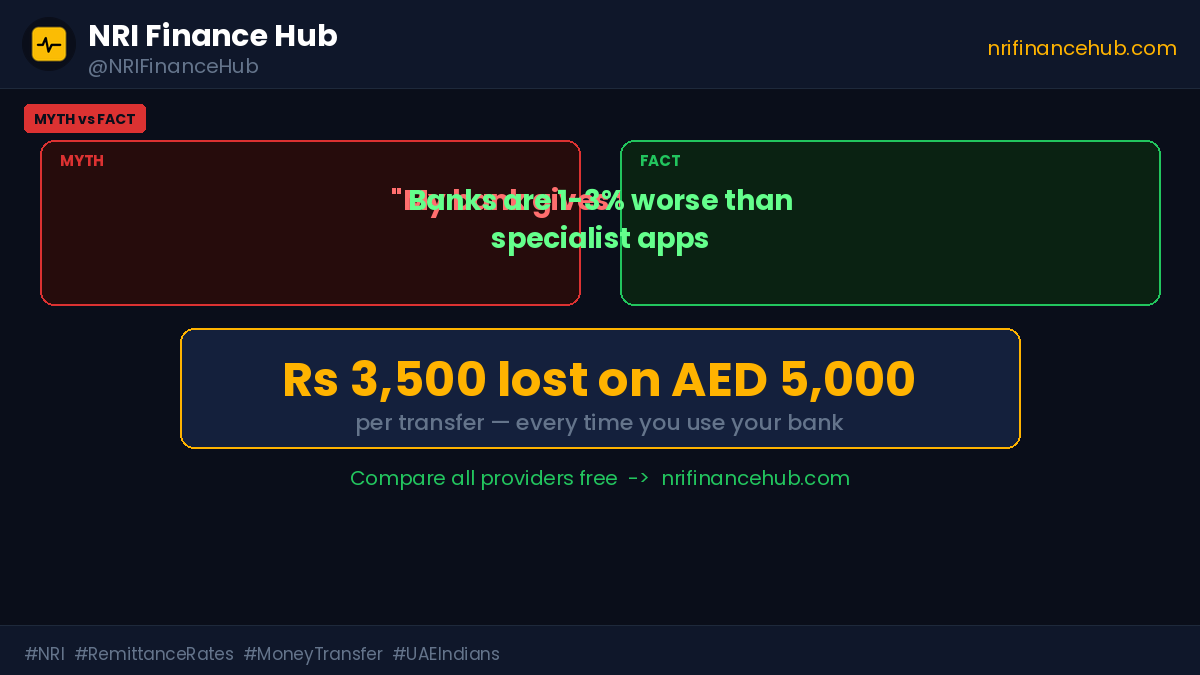
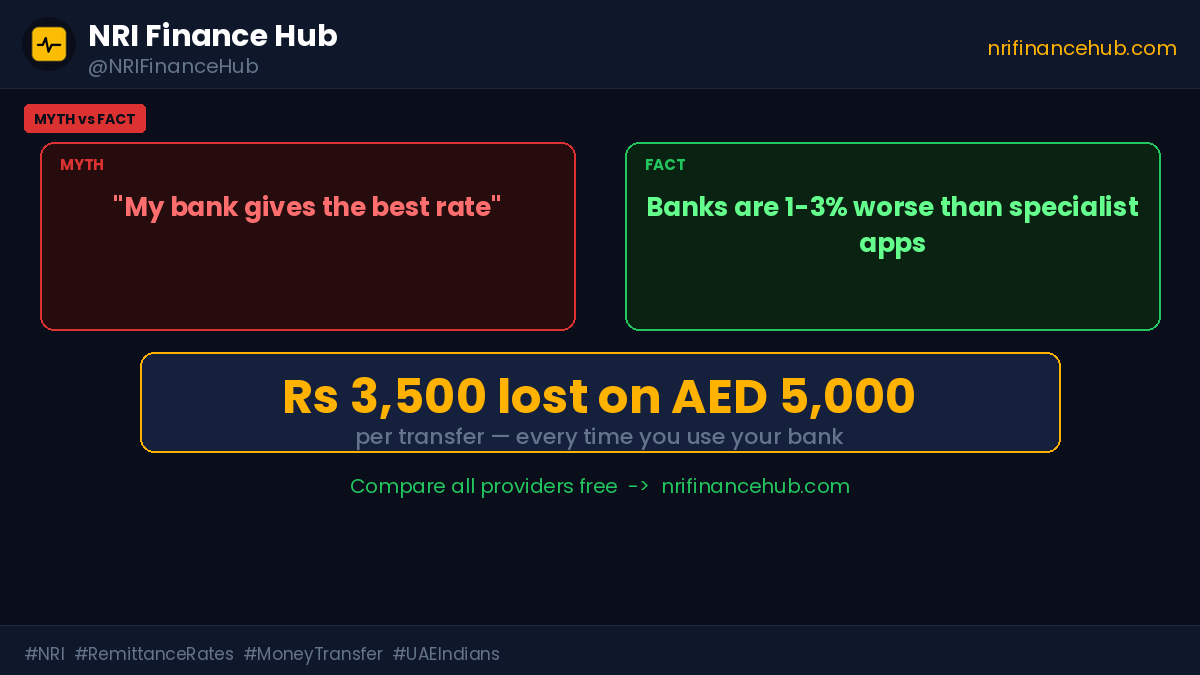
upd

Changed region(s): [[0.0308, 0.1867, 0.9558, 0.7467]]

diff --git a/Projects/14_WebsiteFinance/site/index.html b/Projects/14_WebsiteFinance/site/index.html
@@ -566,7 +566,7 @@ progress{accent-color:var(--violet);}
 <!-- CONVICTION SCAN -->
 <section id="conv" class="tab">
   <div class="card" style="margin-bottom:14px;border-color:#7a5a12;">
-    <span class="muted">⚠️ One button, four independent footprints: technical setup (Screener signals), money-flow (OBV/Chaikin — computed in the same scan), delivery-based accumulation (NSE bhavdata), and business quality (Fundamentals composite score). Only stocks clearing <b>all four</b> gates are shown — deliberately a short, high-bar list, often empty. Multiple signals agreeing isn't proof of anything; this is a filter, not a recommendation.</span>
+    <span class="muted">⚠️ One button, four independent footprints — each a real gate, not just a signal count: technical trade quality (setup score ≥55, above SMA200, penalises overbought/stretched charts), money-flow (OBV/Chaikin, computed in that same scan), delivery-based accumulation (NSE bhavdata, ≥60% delivery on a ≥0.5% up day), and an investment score (≥60) blending business quality, value-trap risk and DCF/Graham margin of safety — the same scoring the Fundamentals tab's own consolidated verdict uses, so nothing that tab would call AVOID or STRETCHED can clear this scan. Only stocks passing <b>all four</b> are shown — deliberately short, often empty. Agreement across signals isn't proof of anything; this is a filter, not a recommendation.</span>
   </div>
   <div class="controls" style="flex-wrap:wrap">
     <select id="convUniverse">
@@ -1839,16 +1839,10 @@ async function renderVerdictPanel(sym, f){
     if(tech) ts = setupScore({...tech, action:"BUY"});
   }catch(e){}
   // --- investment side ---
-  const defG = Math.min(0.20, Math.max(0.04, f.earnings_growth ?? f.revenue_growth ?? 0.10));
-  const iv = (f.eps>0 || f.fcf>0) ? computeIntrinsic(f, {g:defG, r:0.12, tg:0.04, y:7.5}) : null;
-  const q = scoreQuality(f).score, vt = scoreValueTrap(f).score;
-  const mos = iv ? iv.mos : null, impl = iv && iv.implied!=null ? iv.implied*100 : null;
+  const {score:invScore, q, vt, mos, impl} = computeInvestScore(f);
   const revG = f.revenue_growth!=null ? f.revenue_growth*100 : null;
   const earnG = f.earnings_growth!=null ? f.earnings_growth*100 : null;
   const tgtGap = f.target_price!=null && f.price ? (f.target_price-f.price)/f.price*100 : null;
-  // invest score 0-100: quality 40% + trap 20% + valuation 40%
-  const valPart = mos==null ? 50 : mos>=25 ? 100 : mos>=0 ? 60+mos*1.6 : mos>=-50 ? 60+mos : Math.max(5, 10+ (mos+100)*0.1);
-  const invScore = Math.round(((q??50)*0.4) + ((100-(vt??50))*0.2) + valPart*0.4);
   // labels
   const tLbl = ts==null ? ["muted","NO DATA"] : !tech.above_sma200 ? ["bearish","AVOID LONGS"] :
     ts>=70 ? ["bullish","STRONG SETUP"] : ts>=55 ? ["bullish","DECENT SETUP"] : ts>=40 ? ["neutral","WEAK"] : ["bearish","NO SETUP"];
@@ -1937,6 +1931,18 @@ function computeIntrinsic(f, a){   // a = {r, g, tg, y} as decimals; y = Graham 
   }
   return {methods, fair, lo:vals[0], hi:vals[vals.length-1],
     mos:(fair-f.price)/fair*100, upside:(fair-f.price)/f.price*100, implied};
+}
+// Investment score 0-100: quality 40% + (100 - value-trap risk) 20% + valuation (margin of safety) 40%.
+// Shared by the Fundamentals tab's consolidated verdict and the Conviction Scan's fundamentals gate —
+// one formula, so a stock flagged AVOID here can't quietly pass there.
+function computeInvestScore(f){
+  const defG = Math.min(0.20, Math.max(0.04, f.earnings_growth ?? f.revenue_growth ?? 0.10));
+  const iv = (f.eps>0 || f.fcf>0) ? computeIntrinsic(f, {g:defG, r:0.12, tg:0.04, y:7.5}) : null;
+  const q = scoreQuality(f).score, vt = scoreValueTrap(f).score;
+  const mos = iv ? iv.mos : null, impl = iv && iv.implied!=null ? iv.implied*100 : null;
+  const valPart = mos==null ? 50 : mos>=25 ? 100 : mos>=0 ? 60+mos*1.6 : mos>=-50 ? 60+mos : Math.max(5, 10+ (mos+100)*0.1);
+  const score = Math.round(((q??50)*0.4) + ((100-(vt??50))*0.2) + valPart*0.4);
+  return {score, q, vt, mos, impl};
 }
 function renderValuation(sym, f){
   const el = $("valView");
@@ -2878,14 +2884,19 @@ async function runConvictionScan(){
   if(!delivData){ try{ await loadDelivery(); }catch(e){} }
   const delivBySymbol = new Map((delivData && delivData.rows || []).map(r=>[r.s, r]));
 
+  // Technical gate reuses setupScore() — the same trade-quality score the Ideas engine and the
+  // Fundamentals tab's consolidated verdict use. It already rewards the bullish signals below AND
+  // penalises overbought/stretched/bearish conditions (RSI>70, BB upper touch, MACD bear cross,
+  // "STRETCHED" tag, etc.) — so a name chasing an extended move can't sneak through on signal count alone.
   const stage1 = scanned.map(s=>{
     const techSignals = s.signals.filter(x=>CONV_TECH.has(x.type));
     const flowSignals = s.signals.filter(x=>CONV_FLOW.has(x.type));
+    const ts = setupScore({...s, action:"BUY"});
     const dr = delivBySymbol.get(s.symbol.replace(".NS",""));
     const chgPct = dr && dr.p ? (dr.c-dr.p)/dr.p*100 : null;
     const deliveryOk = !!(dr && chgPct!=null && dr.d>=60 && chgPct>=0.5);
-    return {...s, techSignals, flowSignals, deliveryRow:dr, deliveryChgPct:chgPct, deliveryOk};
-  }).filter(s=>s.techSignals.length>0 && s.flowSignals.length>0 && s.deliveryOk);
+    return {...s, techSignals, flowSignals, ts, deliveryRow:dr, deliveryChgPct:chgPct, deliveryOk};
+  }).filter(s=>s.techSignals.length>0 && s.flowSignals.length>0 && s.deliveryOk && s.above_sma200 && s.ts>=55);
 
   if(!stage1.length){
     prog.style.display = "none";
@@ -2894,19 +2905,23 @@ async function runConvictionScan(){
     return;
   }
 
+  // Fundamentals gate reuses computeInvestScore() — same quality (40%) + value-trap (20%) +
+  // margin-of-safety valuation (40%) blend as the Fundamentals tab's own verdict, so a name that tab
+  // would call AVOID/STRETCHED can't clear this scan just for having a decent Quality Score alone.
   $("convMeta").textContent = `Stage 3/3 — fundamentals check on ${stage1.length} candidate${stage1.length>1?"s":""}…`;
   const withFund = await pmap(stage1, async s=>{
     try{
       const r = await fetch(`/api/fundamentals/${encodeURIComponent(s.symbol)}`);
       const f = await r.json();
-      if(f.error) return {...s, qScore:null, vScore:null};
-      return {...s, qScore: scoreQuality(f).score, vScore: scoreValue(f).score};
-    }catch(e){ return {...s, qScore:null, vScore:null}; }
+      if(f.error) return {...s, invScore:null, qScore:null, mos:null};
+      const inv = computeInvestScore(f);
+      return {...s, invScore:inv.score, qScore:inv.q, mos:inv.mos};
+    }catch(e){ return {...s, invScore:null, qScore:null, mos:null}; }
   }, 6);
 
-  const final = withFund.filter(s=>s.qScore!=null && s.qScore>=60)
+  const final = withFund.filter(s=>s.invScore!=null && s.invScore>=60)
     .map(s=>({...s, footprints: s.techSignals.length + s.flowSignals.length + 1 + 1}))
-    .sort((a,b)=> b.footprints-a.footprints || (b.qScore-a.qScore));
+    .sort((a,b)=> b.footprints-a.footprints || (b.invScore-a.invScore));
 
   prog.style.display = "none";
   $("convMeta").textContent = `${scanned.length} scanned · ${stage1.length} cleared technical+flow+delivery · ${final.length} cleared all 4 gates`;
@@ -2920,23 +2935,27 @@ function renderConvictionResults(rows){
   }
   $("convResults").innerHTML = `<table><thead><tr>
     <th>Stock</th><th>Price ₹</th><th>Chg %</th><th title="Total confirming signals across all four gates">Footprints</th>
-    <th>Delivery %</th><th>Quality</th><th>Value</th><th style="text-align:left">Confirming signals</th>
+    <th>Delivery %</th><th title="Trade-quality score (technicals) — same one the Ideas engine uses">Setup</th>
+    <th title="Quality 40% + (100-value-trap risk) 20% + margin-of-safety valuation 40% — same score the Fundamentals tab's verdict uses">Invest</th>
+    <th title="Discounted-cash-flow/Graham margin of safety, default assumptions">MOS</th>
+    <th style="text-align:left">Confirming signals</th>
     </tr></thead><tbody>` + rows.map(s=>{
       const badges = [...s.techSignals, ...s.flowSignals].map(x=>`<span class="badge bullish" title="${x.detail}">${x.type.replaceAll("_"," ")}</span>`).join("")
         + `<span class="badge bullish" title="Delivery ${fmt(s.deliveryRow.d,1)}%, price +${fmt(s.deliveryChgPct,1)}%">GENUINE ACCUMULATION</span>`
-        + `<span class="badge bullish" title="Fundamentals Quality Score">QUALITY ${s.qScore}+</span>`;
+        + `<span class="badge bullish" title="Invest score ${s.invScore} — quality + value-trap + margin of safety">INVEST ${s.invScore}+</span>`;
       return `<tr onclick="openChart('${s.symbol}')">
       <td><span class="sym">${s.symbol.replace(".NS","")}</span><br><span class="subname">${s.name}</span></td>
       <td>${fmt(s.price)}</td>
       <td class="${cls(s.change_pct)}">${sign(s.change_pct)}${fmt(s.change_pct)}%</td>
       <td><b class="up">${s.footprints}</b></td>
       <td>${fmt(s.deliveryRow.d,1)}%</td>
-      <td><span class="${scoreCls(s.qScore)}" style="font-weight:700">${s.qScore}</span></td>
-      <td>${s.vScore!=null?s.vScore:"—"}</td>
+      <td><span class="${scoreCls(s.ts)}" style="font-weight:700">${s.ts}</span></td>
+      <td><span class="${scoreCls(s.invScore)}" style="font-weight:700">${s.invScore}</span></td>
+      <td class="${s.mos!=null?cls(s.mos):""}">${s.mos!=null?sign(s.mos)+fmt(s.mos,0)+"%":"—"}</td>
       <td style="text-align:left">${badges}</td>
     </tr>`;
     }).join("") + `</tbody></table>
-    <div class="muted" style="font-size:11px;margin-top:4px">Click a row to open its chart. "Footprints" = count of confirming signals across technical + money-flow + delivery + fundamentals gates — more agreement, not a guarantee. Not investment advice.</div>`;
+    <div class="muted" style="font-size:11px;margin-top:4px">Click a row to open its chart (open the Fundamentals tab there for the full consolidated verdict). "Footprints" = count of confirming signals across technical + money-flow + delivery + fundamentals gates — more agreement, not a guarantee. Not investment advice.</div>`;
 }
 
 /* ---- fresh order-block scanner: universe sweep, last 7 days, unmitigated only ---- */

diff --git a/Projects/14_WebsiteFinance/site/universe.js b/Projects/14_WebsiteFinance/site/universe.js
@@ -1,7 +1,7 @@
 // Stock universes — generated from official NSE constituent lists (nsearchives.nseindia.com), July 2026.
 // Yahoo Finance symbols: NSE symbol + ".NS"
 
-const APP_VERSION = "3.1.0";
+const APP_VERSION = "3.1.1";
 
 const INDICES = {
   "^NSEI": "NIFTY 50",

diff --git a/Projects/14_WebsiteFinance/CHANGELOG.md b/Projects/14_WebsiteFinance/CHANGELOG.md
@@ -2,6 +2,12 @@
 
 All notable changes to India Shares Tracker.
 
+## [3.1.1] — 2026-07-19
+
+- Conviction Scan fundamentals gate was too weak: it only checked Quality Score ≥60, which ignores valuation entirely — a stock trading well above its DCF/Graham fair value (or riding an overbought RSI) could still clear all four gates. Caught live: CEMPRO cleared the scan with 7 footprints, but its own Fundamentals-tab verdict said AVOID (RSI 82 overbought, margin of safety -153%, analyst target -17% below price)
+- Both gates now reuse the Fundamentals tab's own scoring instead of a separate, weaker check: technical gate is `setupScore()` ≥55 + above SMA200 (the same trade-quality score the Ideas engine uses, which already penalises overbought/stretched/bearish conditions); fundamentals gate is a new shared `computeInvestScore()` — quality 40% + (100-value-trap risk) 20% + DCF/Graham margin-of-safety 40%, extracted out of the consolidated verdict panel so both places compute it identically. A name the Fundamentals tab would call AVOID or STRETCHED can no longer clear Conviction Scan
+- Results table swaps the old Quality/Value columns for Setup score, Invest score and Margin of Safety %, so the reasoning is visible inline instead of requiring a click-through
+
 ## [3.1.0] — 2026-07-19 · Conviction Scan
 
 - Removed the **Brief** tab and all its dedicated code (`loadBrief`/`renderBriefGate`/`renderBriefIdeas`/`renderBriefEdge`) — replaced by Conviction Scan in the same nav slot. (Unrelated same-named features kept: the Ideas tab's "decision briefs" and the Fundamentals tab's AI news brief.)